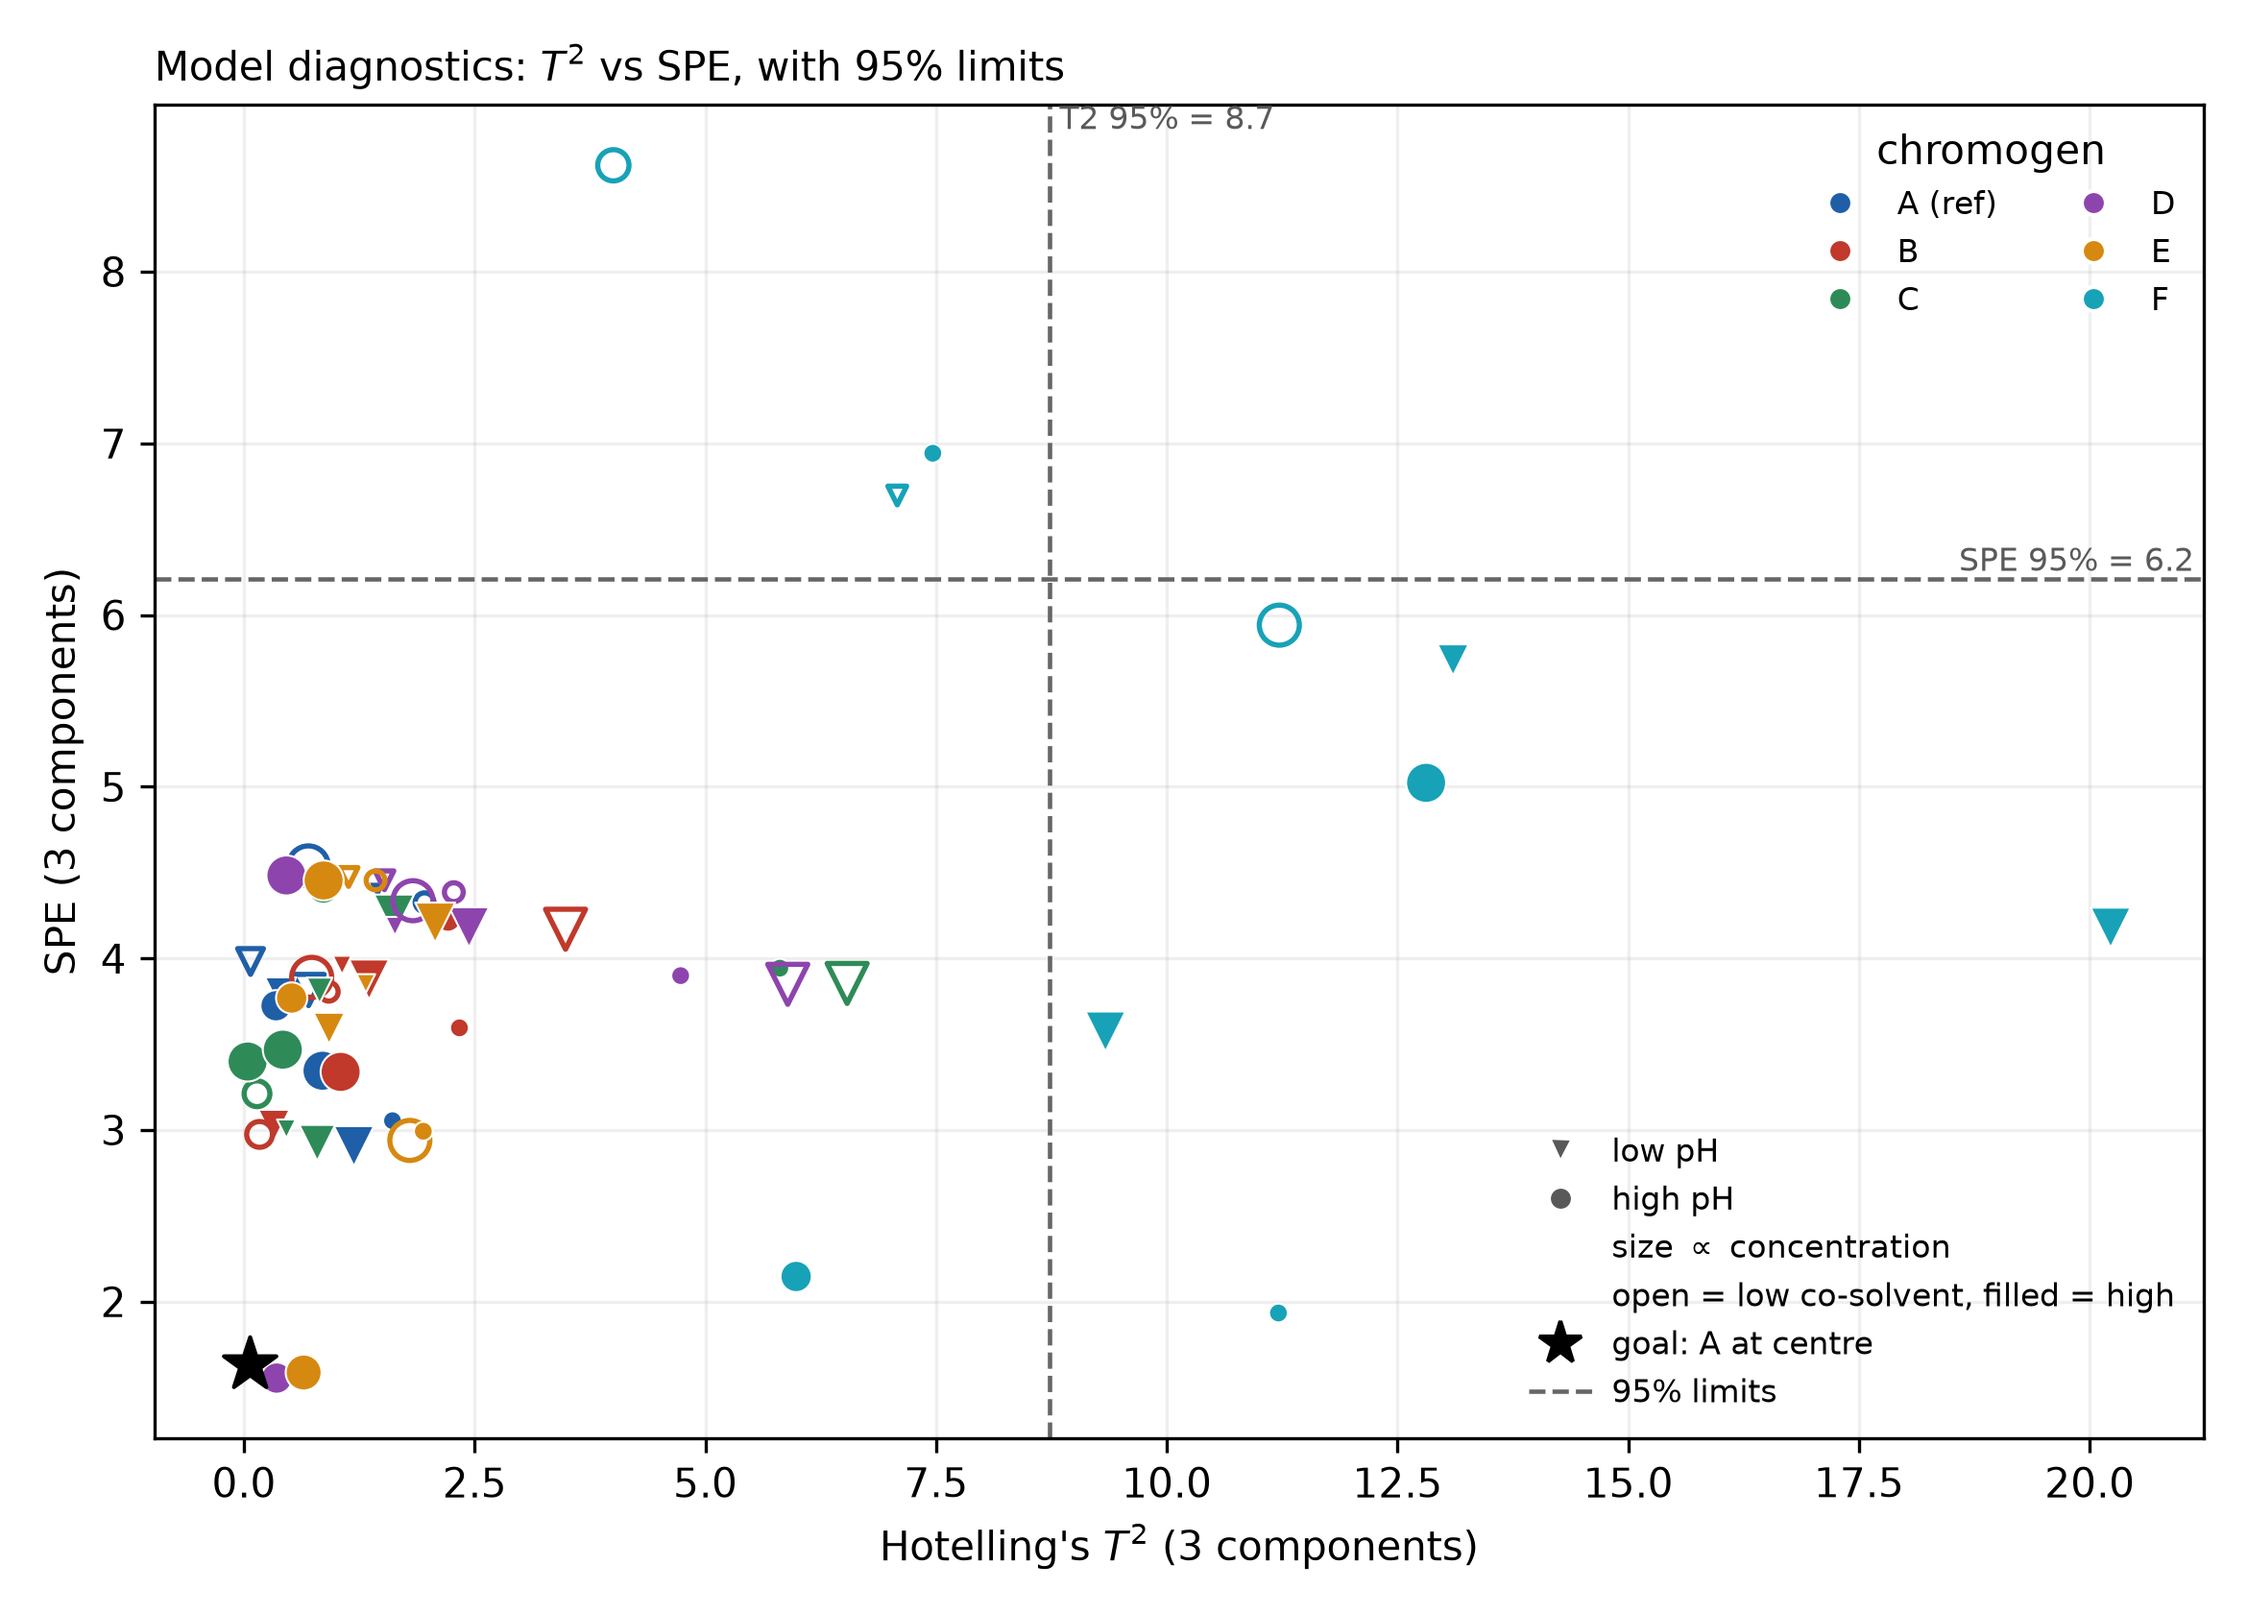
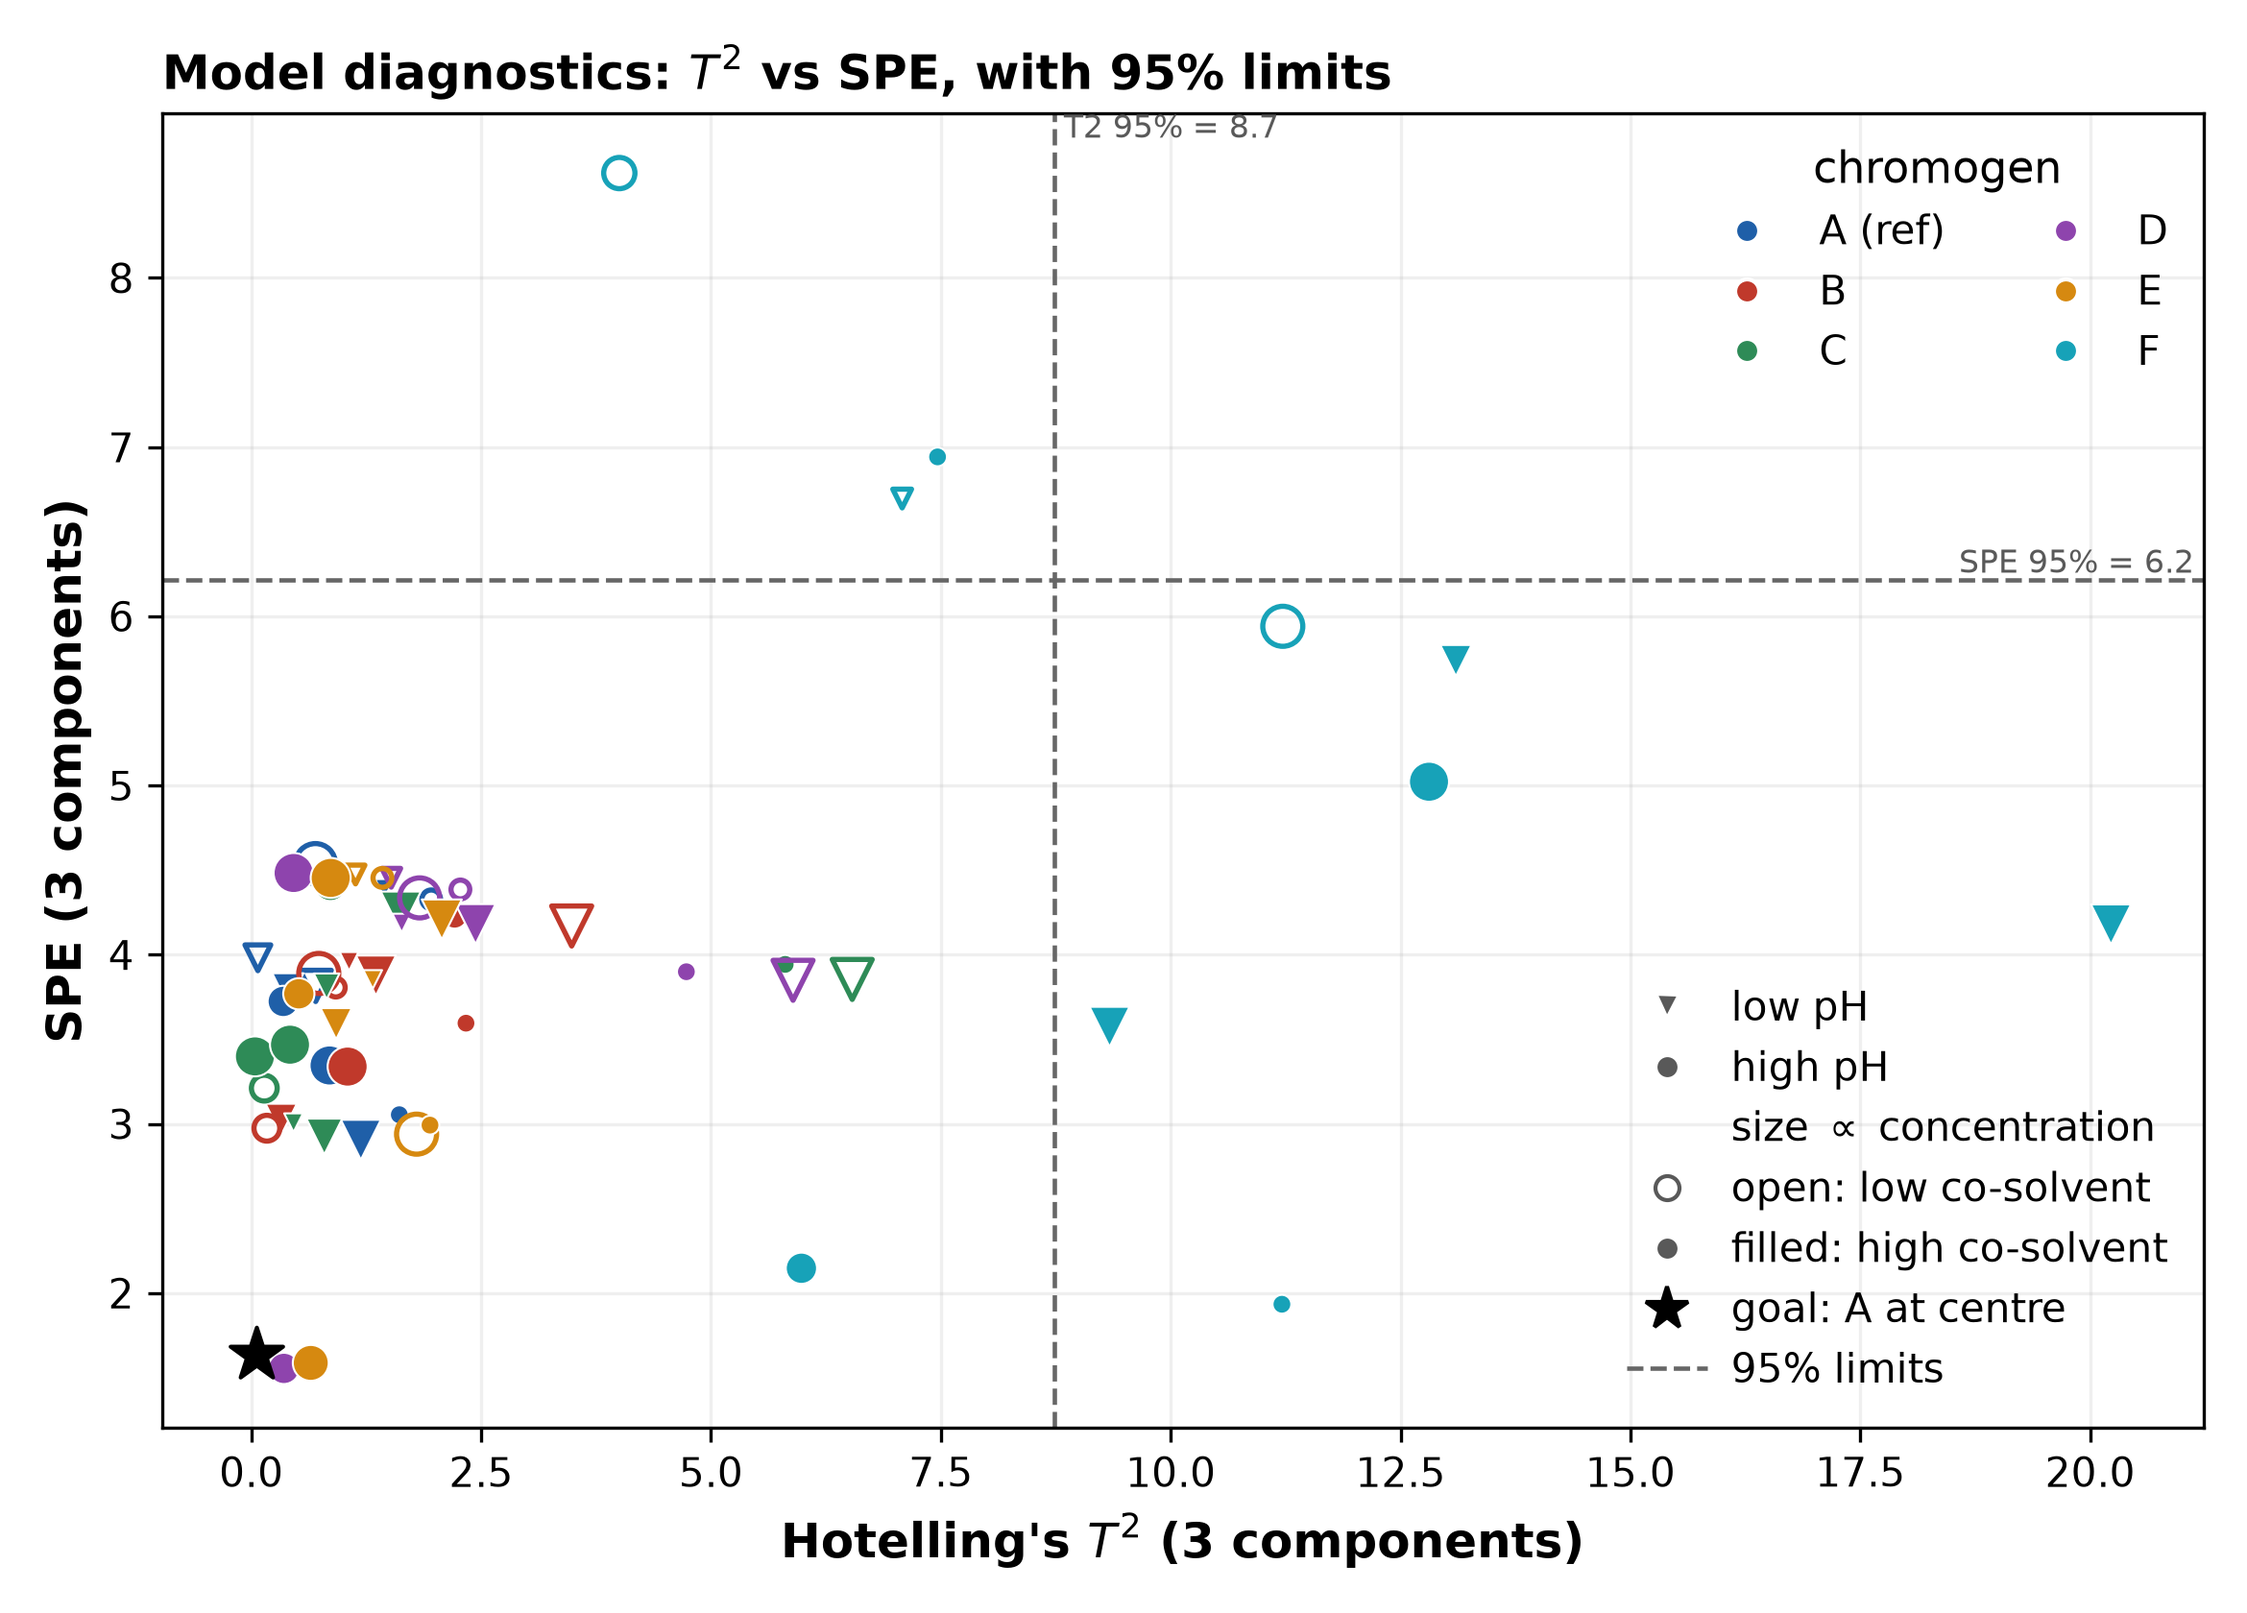
T2-SPE figure: larger, bold axis labels and title, and a larger key
Axis labels and title at 12 pt bold, both keys at 10 pt. The co-solvent
entry is split into "open: low co-solvent" and "filled: high
co-solvent", each with its marker, so the larger key stays narrow enough
for the empty lower-right corner.

Claude-Session: https://claude.ai/code/session_01LuZsAwoXkHeFZCALLWGpgv

diff --git a/doe/colour-pls-t2-spe.py b/doe/colour-pls-t2-spe.py
@@ -71,9 +71,9 @@ ax.text(ax.get_xlim()[1], spe_lim, f"SPE 95% = {spe_lim:.1f} ", color="0.35", fo
 # Reference goal: chromogen A at the centre point, projected onto the model.
 ax.scatter([goal["t2"]], [goal["spe"]], s=190, color="k", marker="*", zorder=5)
 
-ax.set_xlabel("Hotelling's $T^2$ (3 components)")
-ax.set_ylabel("SPE (3 components)")
-ax.set_title("Model diagnostics: $T^2$ vs SPE, with 95% limits", fontsize=10, loc="left")
+ax.set_xlabel("Hotelling's $T^2$ (3 components)", fontsize=12, fontweight="bold")
+ax.set_ylabel("SPE (3 components)", fontsize=12, fontweight="bold")
+ax.set_title("Model diagnostics: $T^2$ vs SPE, with 95% limits", fontsize=12, fontweight="bold", loc="left")
 
 colour_handles = [Line2D([], [], marker="o", ls="", color=colour, markeredgecolor="w",
                          label="A (ref)" if c == "A" else c)
@@ -82,15 +82,16 @@ enc_handles = [
     Line2D([], [], marker="v", ls="", color="0.35", markeredgecolor="w", label="low pH"),
     Line2D([], [], marker="o", ls="", color="0.35", markeredgecolor="w", label="high pH"),
     Line2D([], [], marker="None", ls="", label=r"size $\propto$ concentration"),
-    Line2D([], [], marker="None", ls="", label="open = low co-solvent, filled = high"),
+    Line2D([], [], marker="o", ls="", markerfacecolor="w", markeredgecolor="0.35", label="open: low co-solvent"),
+    Line2D([], [], marker="o", ls="", color="0.35", markeredgecolor="w", label="filled: high co-solvent"),
     Line2D([], [], marker="*", ls="", color="k", markersize=11, label="goal: A at centre"),
     Line2D([], [], color="0.4", ls="--", lw=1.1, label="95% limits"),
 ]
-leg1 = ax.legend(handles=colour_handles, frameon=False, fontsize=8, ncol=2, loc="upper right",
-                 title="chromogen")
+leg1 = ax.legend(handles=colour_handles, frameon=False, fontsize=10, ncol=2, loc="upper right",
+                 title="chromogen", title_fontsize=11)
 ax.add_artist(leg1)
 # In the empty lower-right corner (high T2, low SPE), clear of the SPE limit line.
-ax.legend(handles=enc_handles, frameon=False, fontsize=8, loc="lower right", handletextpad=0.6)
+ax.legend(handles=enc_handles, frameon=False, fontsize=10, loc="lower right", handletextpad=0.6)
 ax.grid(alpha=0.2)
 fig.tight_layout()
 fig.savefig("colour-pls-t2-spe.png", dpi=300, facecolor="w", edgecolor="w", transparent=True)
